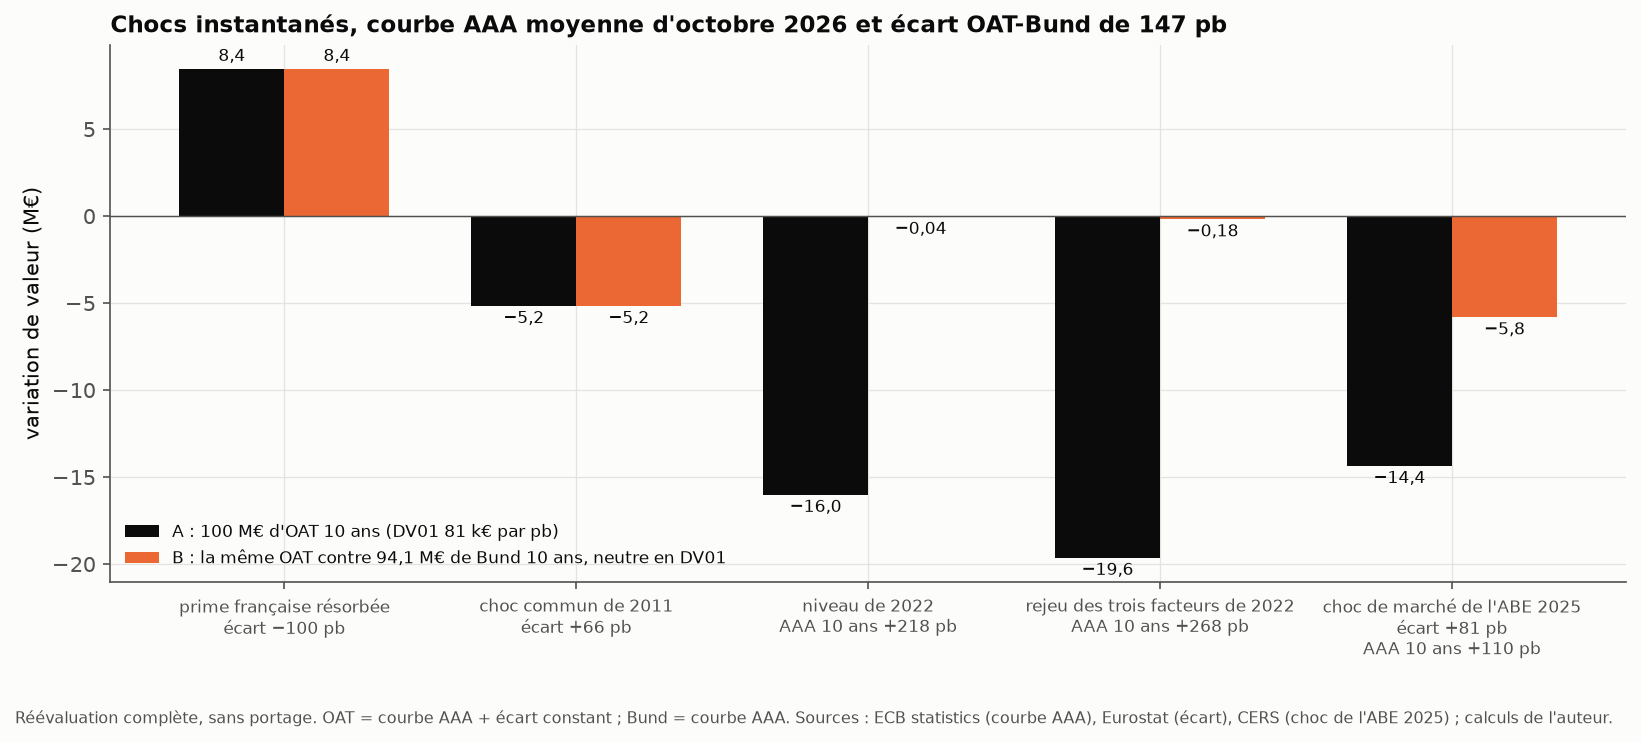
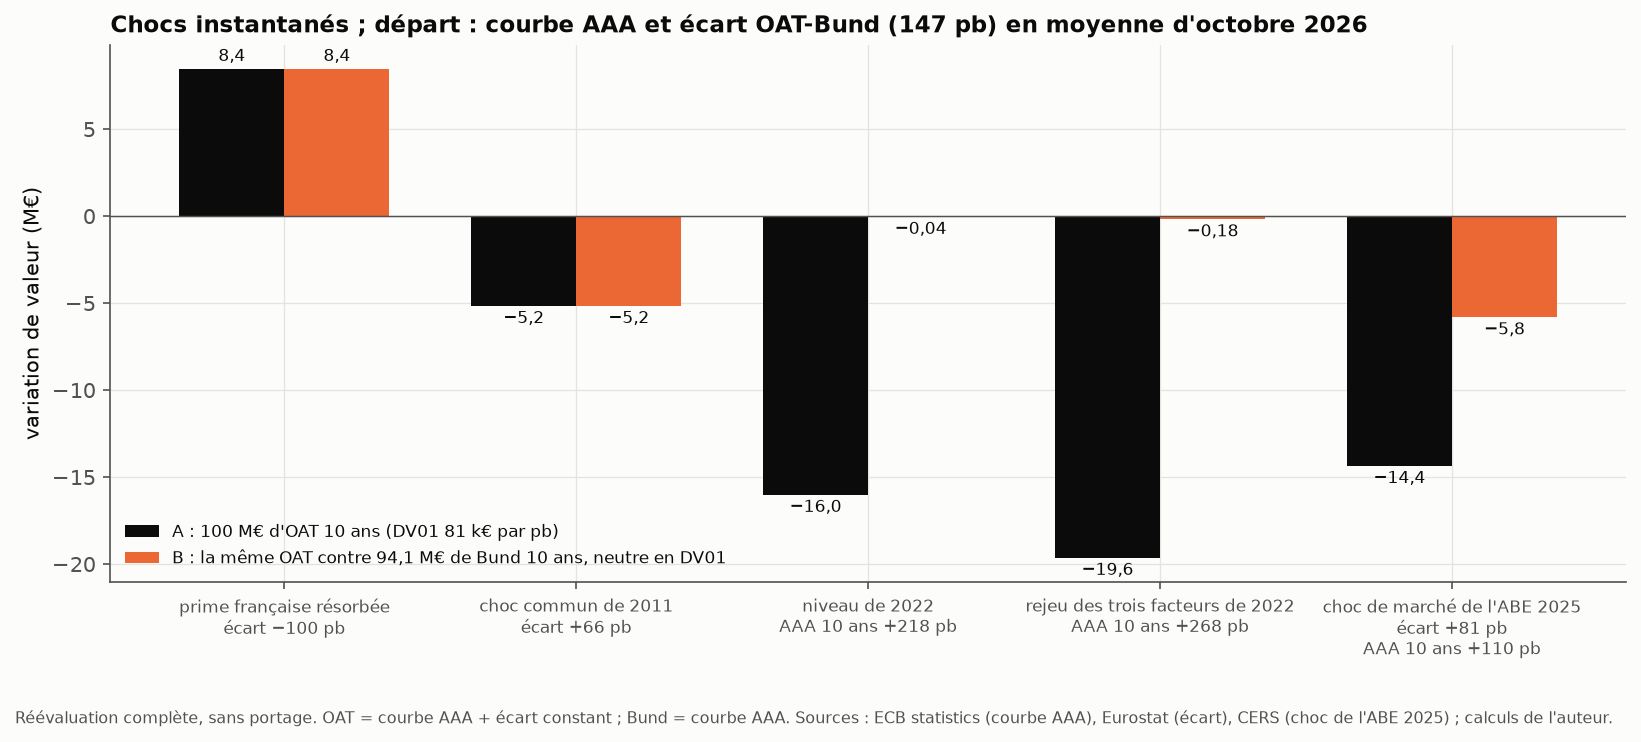
Relecture du README en stratégiste taux : part propre au-delà de la hausse dite, moyenne mensuelle partout, Bund
Relu comme le lirait un stratégiste taux, le README corrige ce qui l'aurait fait tiquer :
- la phrase d'en-tête dit, comme le plan l'exigeait, que la part propre (100 pb) dépasse la hausse
  observée (96 pb) parce que la part commune est négative (−3 pb) ;
- « en moyenne mensuelle » accompagne chaque niveau de l'écart (147 pb n'est pas un niveau quotidien) ;
- b est expliqué (0,40 pb d'écart français par pb d'écart moyen des pairs), l'écart moyen des pairs est
  nommé facteur commun, la part propre prime de risque souveraine relative aux pairs ;
- DV01 et sensibilité à l'écart ne sont plus confondues dans la note (égales pour une OAT seule) ;
- le tableau sans modèle dit que seule la ligne de l'Allemagne dépend d'un choc propre au Bund ;
- les limites ajoutent la pondération par le PIB plutôt que par l'encours de dette.

Contrôle ajouté après le premier calcul, signalé comme tel dans le README et dans stress.json : les
coupons construits (5,00 % pour l'OAT, 3,48 % pour le Bund) sont un peu au-dessus des taux d'Eurostat
d'octobre 2026 (4,89 % et 3,42 %), car la courbe AAA n'est pas celle du Bund seul. Aucun autre chiffre
n'a changé ; les scripts ont été relancés pour la mise en page des figures, sans changement de
spécification. La vérification retrouve les 142 chiffres de la page dans resultats/.

Claude-Session: https://claude.ai/code/session_01LuS1gEV7LyJ3dwhMPhbNXb

Changed region(s): [[0.2176, 0.0, 0.8391, 0.062]]

diff --git a/scripts/verifier_readme.py b/scripts/verifier_readme.py
@@ -59,11 +59,13 @@ def attendus(r: dict) -> dict[str, str]:
     e["part commune"] = f"la part commune de l'écart français est de {fr(p['part_commune_pb'])} pb"
     xs = sorted(round(v["part_propre_pb"]) for v in var.values())
     e["variantes"] = f"donnent toutes {xs[0]} ou {xs[-1]} pb"
-    e["147"] = f"écart OAT-Bund ({fr(f['ecart_fin_pb'])} pb) est au plus haut depuis {mois_fr(f['plus_haut_depuis'])}"
+    e["147"] = (f"l'écart OAT-Bund ({fr(f['ecart_fin_pb'])} pb en moyenne\nmensuelle) est au plus haut depuis "
+                f"{mois_fr(f['plus_haut_depuis'])}")
     fi = f["france_au_dessus_de_l_italie"]
     nombres = {6: "sixième"}
-    e["italie"] = (f"pour le {nombres[fi['nombre_de_mois']]} mois depuis {mois_fr(fi['premier_mois_depuis_1999'])}, "
+    e["italie"] = (f"pour le {nombres[fi['nombre_de_mois']]} mois\ndepuis {mois_fr(fi['premier_mois_depuis_1999'])}, "
                    "une première depuis 1999")
+    e["part propre dépasse"] = "la part propre dépasse donc la hausse observée" if p["part_commune_pb"] < 0 else "?"
     chemin_avant = {m: v for m, v in ch.items() if m <= "2026-08"}
     bas = min(chemin_avant.items(), key=lambda kv: kv[1]["propre"])
     haut = max(chemin_avant.items(), key=lambda kv: kv[1]["propre"])
@@ -72,7 +74,8 @@ def attendus(r: dict) -> dict[str, str]:
     e["chemin, septembre"] = f"à {fr(ch['2026-09']['propre'])} pb en septembre"
     e5 = ep["E5"]
     e["automne"] = f"{fr(e5['part_propre_pb'])} pb\n  {ic(e5['ic95_pb'])} en deux mois"
-    e["b"] = f"(b = {fr(est['coefficients']['P'], 2)})"
+    e["b"] = (f"b = {fr(est['coefficients']['P'], 2)} ({fr(est['coefficients']['P'], 2)} pb d'écart français par pb "
+              "d'écart moyen des pairs)")
     francais_contre = {k: v["variation_pb"] for k, v in sm.items() if k not in ("G8",)}
     mini = min(francais_contre, key=francais_contre.get)
     maxi = max(francais_contre, key=francais_contre.get)
@@ -85,7 +88,9 @@ def attendus(r: dict) -> dict[str, str]:
     e1, e2 = ep["E1"], ep["E2"]
     e["E1 note"] = f"{fr(e1['part_propre_pb'])} pb {ic(e1['ic95_pb'])} de juin à novembre 2011"
     e["E2 note"] = f"({fr(e2['part_propre_pb'])} pb, {ic(e2['ic95_pb'])})"
-    e["DV01 note"] = f"chaque pb d'écart vaut {fr(A['dv01_taux_keur_par_pb'])} k€ (DV01)"
+    assert round(A["dv01_taux_keur_par_pb"]) == round(A["sensibilite_ecart_keur_par_pb"])
+    e["DV01 note"] = (f"la DV01 et la sensibilité à l'écart valent toutes deux {fr(A['dv01_taux_keur_par_pb'])} k€ "
+                      "par pb")
     e["C1 note"] = f"rapporterait {fr(A['chocs']['C1_prime_resorbee']['variation_meur'], 1)} M€"
     e["C2 note"] = f"coûterait {fr(-A['chocs']['C2_choc_commun_2011']['variation_meur'], 1)} M€"
     obs = abe["ecart_observe_moyenne_annuelle_pb"]
@@ -101,8 +106,9 @@ def attendus(r: dict) -> dict[str, str]:
     e["anglais 5"] = f"EUR {fr(ref['plan']['nominal_oat_meur'])}m of {ref['plan']['maturite_ans']}-year OATs"
     e["anglais 6"] = f"worth\n> EUR {fr(A['dv01_taux_keur_par_pb'])}k"
     # Section 2
-    e["s2 147"] = f"l'écart OAT-Bund est de {fr(f['ecart_fin_pb'])} pb, contre {fr(f['ecart_mai_2024_pb'])} pb en mai 2024"
-    e["s2 2011"] = f"novembre 2011\n  ({fr(f['ecart_au_plus_haut_depuis_pb'])} pb)"
+    e["s2 147"] = (f"l'écart OAT-Bund est de {fr(f['ecart_fin_pb'])} pb en moyenne mensuelle, contre "
+                   f"{fr(f['ecart_mai_2024_pb'])} pb en mai 2024")
+    e["s2 2011"] = f"à novembre 2011 ({fr(f['ecart_au_plus_haut_depuis_pb'])} pb)"
     e["s2 italie"] = f"six mois, et aucun avant décembre 2025 depuis janvier 1999"
     e["s2 italie niveaux"] = (f"il était {fr(-sm['IT']['base_pb'])} pb en dessous ; en octobre\n  2026, il est "
                               f"{fr(sm['IT']['fin_pb'])} pb au-dessus")
@@ -244,7 +250,11 @@ def attendus(r: dict) -> dict[str, str]:
                          f"{fr(cd['eurostat_moyenne_2024_pct']['DE'], 2)} % chez Eurostat")
     e["abe suivi"] = (f"{fr(obs['2025'])} pb en 2025 pour {fr(ea['central_2025'])} dans le\n  scénario central et "
                       f"{fr(ea['adverse_2025'])} dans l'adverse")
-    e["abe octobre"] = f"Le niveau d'octobre 2026 ({fr(f['ecart_fin_pb'])} pb) approche l'adverse de 2025"
+    e["abe octobre"] = (f"Le niveau d'octobre 2026 ({fr(f['ecart_fin_pb'])} pb en moyenne mensuelle) approche\n  "
+                        "l'adverse de 2025")
+    ca2 = st["controle_ajoute_apres_coup"]["taux_eurostat_pct"]
+    e["contrôle coupons"] = (f"Eurostat donne {fr(ca2['FR'], 2)} % pour la France et {fr(ca2['DE'], 2)} % pour\n  "
+                             "l'Allemagne en octobre 2026")
     cm = abe["choc_de_marche_10_ans_pb"]
     e["abe marché"] = (f"monte le swap en euro de {fr(cm['swap_eur'])} pb, l'écart souverain français\n  contre swap de "
                        f"{fr(cm['france_contre_swap'])} pb et l'allemand de {fr(cm['allemagne_contre_swap'])} pb : "

diff --git a/scripts/stress.py b/scripts/stress.py
@@ -117,6 +117,9 @@ def main() -> None:
         "chocs": {c: {"libelle": s["libelle"], "ecart_10_ans_pb": s["ecart_10_ans_pb"], "aaa_10_ans_pb": s["aaa_10_ans_pb"]}
                   for c, s in chocs.items()},
         "entrees": {"part_propre_pb": x_propre, "b": b, "variation_P_G8_2011_06_2011_11_pb": dP_2011},
+        "controle_ajoute_apres_coup": {
+            "note": "ajouté après le premier calcul, hors plan : les coupons construits face aux taux d'Eurostat du même mois",
+            "taux_eurostat_pct": {p: float(donnees.lire_taux_longs().loc[analyse.FIN, p]) for p in ("FR", "DE")}},
         "positions": sortie_positions,
     }
     (RESULTATS / "stress.json").write_text(json.dumps(analyse.arrondir(resultats), indent=2, ensure_ascii=False))
@@ -147,7 +150,8 @@ def main() -> None:
     ax.set_xticks(x, etiquettes, fontsize=8)
     ax.axhline(0, color=style.ENCRE_2, lw=0.7)
     ax.set_ylabel("variation de valeur (M€)")
-    ax.set_title(f"Chocs instantanés, courbe AAA moyenne d'octobre 2026 et écart OAT-Bund de {_fr(ecart, 0)} pb", loc="left")
+    ax.set_title(f"Chocs instantanés ; départ : courbe AAA et écart OAT-Bund ({_fr(ecart, 0)} pb) en moyenne d'octobre 2026",
+                 loc="left")
     ax.legend(loc="lower left", fontsize=8)
     style.virgule(ax, decimales=0)
     fig.text(0.01, -0.06, "Réévaluation complète, sans portage. OAT = courbe AAA + écart constant ; Bund = courbe AAA. "

diff --git a/README.md b/README.md
@@ -5,17 +5,20 @@
 **Sur 96 pb de hausse de l'écart de taux à 10 ans entre la France et l'Allemagne, de mai 2024 à octobre 2026 et en
 moyenne mensuelle, 100 pb [73 ; 126] sont propres à la France** (intervalle à 95 %). Les huit pays pairs ne
 l'expliquent pas : leur écart moyen à l'Allemagne, pondéré par le PIB de 2019, a baissé de 8 pb sur la période, et
-la part commune de l'écart français est de −3 pb. Les cinq variantes fixées d'avance donnent toutes 99 ou 100 pb.
-En octobre 2026, l'écart OAT-Bund (147 pb) est au plus haut depuis novembre 2011, et le taux français dépasse
-l'italien pour le sixième mois depuis décembre 2025, une première depuis 1999.
+la part commune de l'écart français est de −3 pb ; la part propre dépasse donc la hausse observée. Les cinq
+variantes fixées d'avance donnent toutes 99 ou 100 pb. En octobre 2026, l'écart OAT-Bund (147 pb en moyenne
+mensuelle) est au plus haut depuis novembre 2011, et le taux français dépasse l'italien pour le sixième mois
+depuis décembre 2025, une première depuis 1999.
 
 - **Quand.** La part propre apparaît dès juin 2024 (12 pb), reste entre 12 et 43 pb jusqu'en août 2026, puis passe
   à 57 pb en septembre et à 100 pb en octobre 2026. L'épisode de l'automne 2026 en fait plus de la moitié : 56 pb
   [49 ; 64] en deux mois. Faute de source primaire sur ses causes, ce projet ne les date pas.
 - **Ce que mesure le chiffre.** L'écart entre l'OAT-Bund observé et celui qu'aurait donné une France suivant ses
-  pairs (Italie, Espagne, Pays-Bas, Belgique, Autriche, Portugal, Finlande, Irlande) avec la sensibilité estimée
-  sur les 60 mois avant mai 2024 (b = 0,40). La « juste valeur » est relative aux pairs. L'écart n'est pas un pur
-  risque de défaut : il contient aussi la liquidité et la rareté relative du Bund.
+  pairs (Italie, Espagne, Pays-Bas, Belgique, Autriche, Portugal, Finlande, Irlande). Leur écart moyen à l'Allemagne
+  sert de facteur commun ; la sensibilité de la France à ce facteur, estimée sur les 60 mois avant mai 2024, est
+  b = 0,40 (0,40 pb d'écart français par pb d'écart moyen des pairs). La part propre est une prime de risque
+  souveraine relative aux pairs : la « juste valeur » qu'elle suppose est relative, et l'écart n'est pas un pur
+  risque de défaut, il contient aussi la liquidité et la rareté relative du Bund.
 - **Pourquoi les variantes s'accordent.** L'écart moyen des pairs a peu bougé en net : quel que soit b, la part
   commune reste petite. Le chiffre repose donc surtout sur l'hypothèse qu'en l'absence de choc propre, la France
   aurait suivi ses pairs. Sans modèle, l'écart de la France s'est creusé contre chacun des neuf pays, de 54 pb
@@ -27,14 +30,15 @@ l'italien pour le sixième mois depuis décembre 2025, une première depuis 1999
   commune, comme le plan l'attendait, et trouve une part propre de 37 pb [19 ; 55] de juin à novembre 2011. Elle ne
   détecte pas l'élection présidentielle de 2017 (10 pb, [−19 ; 39]), que le plan attendait : sur des moyennes
   mensuelles, un épisode court et modéré lui échappe.
-- **Stress.** Pour 100 M€ d'OAT à 10 ans, chaque pb d'écart vaut 81 k€ (DV01). La résorption de la prime
-  rapporterait 8,4 M€ ; le choc commun de 2011, transposé, coûterait 5,2 M€. Couverte contre le Bund en DV01, la
-  position ne garde que le risque d'écart, mais elle le garde en entier.
+- **Stress.** Pour 100 M€ d'OAT à 10 ans, la DV01 et la sensibilité à l'écart valent toutes deux 81 k€ par pb. La
+  résorption de la prime rapporterait 8,4 M€ ; le choc commun de 2011, transposé, coûterait 5,2 M€. Couverte contre
+  le Bund en DV01, la position ne garde que le risque d'écart, mais elle le garde en entier.
 - **ABE 2025.** En moyenne annuelle, l'écart observé a suivi le scénario central de l'ABE (76 pb en 2025, comme le
   scénario) ; le niveau d'octobre 2026, 147 pb sur un mois, approche celui du scénario adverse pour 2025, 157 pb en
   moyenne annuelle.
 
-C'est une mesure, ni une prévision ni une recommandation de position. Le plan a été commité avant tout calcul
+Sources : Eurostat, BCE, CERS ; calculs de l'auteur. C'est une mesure, ni une prévision ni une recommandation de
+position. Le plan a été commité avant tout calcul
 (`PLAN.md`, commit `f938339`), le code de la décomposition avant les résultats. Le code a été écrit et relu par des
 agents de programmation IA (Claude Code) sous la direction de l'auteur ; il fixe l'objectif et les règles de
 validation, et décide de ce qui est gardé.
@@ -54,9 +58,10 @@ validation, et décide de ce qui est gardé.
 - Les taux sont les taux longs du critère de convergence publiés par Eurostat : rendements du marché secondaire
   d'obligations d'État de durée résiduelle proche de 10 ans, en moyenne mensuelle. Ils ne sont pas à maturité
   constante : les titres retenus sont remplacés à mesure qu'ils vieillissent.
-- En octobre 2026, l'écart OAT-Bund est de 147 pb, contre 51 pb en mai 2024. Il faut remonter à novembre 2011
-  (154 pb) pour trouver un mois plus haut.
-- Le taux français dépasse le taux italien en décembre 2025, janvier et février 2026, puis d'août à octobre 2026 :
+- En octobre 2026, l'écart OAT-Bund est de 147 pb en moyenne mensuelle, contre 51 pb en mai 2024. Il faut remonter
+  à novembre 2011 (154 pb) pour trouver un mois plus haut.
+- En moyenne mensuelle, le taux français dépasse l'italien en décembre 2025, janvier et février 2026, puis d'août
+  à octobre 2026 :
   six mois, et aucun avant décembre 2025 depuis janvier 1999. En mai 2024, il était 81 pb en dessous ; en octobre
   2026, il est 21 pb au-dessus.
 - Les pairs pèsent selon leur PIB de 2019 : Italie 32 %, Espagne 22 %, Pays-Bas 15 %, Belgique 9 %, Autriche 7 %,
@@ -128,8 +133,8 @@ mensuelle :
 | moyenne des huit pairs (PIB de 2019) | −29 | 75 | +104 |
 
 La France s'écarte de tous. La Belgique fait exception par l'ampleur : son propre écart au Bund a monté pendant la
-période, ce qui réduit celui de la France contre elle à 54 pb. Un choc propre au Bund déplace tous ces écarts
-ensemble ; l'écart contre les pairs n'en dépend pas.
+période, ce qui réduit celui de la France contre elle à 54 pb. Seule la ligne de l'Allemagne dépend d'un choc
+propre au Bund ; les autres comparent la France à un pair, sans passer par le Bund.
 
 ## 4. Les épisodes
 
@@ -156,8 +161,8 @@ modèle principal sert.
   mois, la méthode n'a pas la précision de séparer un épisode de cette taille. Le résultat de 2024-2026, dix fois
   plus grand, n'est pas dans ce cas, mais la validation de la méthode sur le passé reste partielle.
 - **E1** : la part commune domine (+63 pb sur +100), et la France a aussi sa part propre (+37 pb), significative.
-- **E5** : 56 pb propres en deux mois. L'écart moyen des pairs monte aussi de 24 pb ; si c'est de la contagion venue
-  de France, la part propre est sous-estimée.
+- **E5** : 56 pb propres en deux mois, en moyenne mensuelle. L'écart moyen des pairs monte aussi de 24 pb ; si c'est
+  de la contagion venue de France, la part propre est sous-estimée.
 - **Le SovCISS de la France**, indicateur quotidien de tension souveraine de la BCE, sert à dater faute de taux
   français quotidien ouvert. Dans chaque épisode, il culmine le 1er novembre 2011 (0,72), le 16 mars 2017 (0,44), le
   2 avril 2020 (0,45), le 19 octobre 2022 (0,54) et le 21 octobre 2026 (0,27). En juin 2024, sa plus forte hausse sur
@@ -172,10 +177,12 @@ Hypothèses (`PLAN.md`, section 10 ; `src/ecart_oat_bund/stress.py`) :
 
 - **Courbes.** La courbe AAA de la BCE en moyenne d'octobre 2026 (moyenne des courbes de Svensson publiées les 22
   jours ouvrés du mois ; 3,45 % à 10 ans en zéro-coupon) tient lieu de courbe du Bund. La courbe des OAT est la courbe
-  AAA plus l'écart d'octobre 2026, 147 pb, à toutes les maturités.
+  AAA plus l'écart d'octobre 2026, 147 pb en moyenne mensuelle, à toutes les maturités.
 - **Positions.** (A) 100 M€ de nominal d'une OAT à 10 ans émise au pair (coupon 5,00 %, duration 8,1 ans) ; (B) la
   même OAT contre la vente de 94,1 M€ de Bund à 10 ans au pair (coupon 3,48 %, duration 8,6 ans), montant qui annule
-  la DV01 de taux.
+  la DV01 de taux. Contrôle ajouté après le premier calcul : Eurostat donne 4,89 % pour la France et 3,42 % pour
+  l'Allemagne en octobre 2026 ; les coupons construits sont un peu plus hauts, car la courbe AAA n'est pas celle du
+  Bund seul et un coupon au pair n'est pas un taux zéro-coupon.
 - **Sensibilités.** A : DV01 de taux 81 k€ par pb, sensibilité à l'écart 81 k€ par pb. B : DV01 de taux nulle,
   sensibilité à l'écart 81 k€ par pb.
 - **Chocs instantanés**, réévaluation complète, sans portage :
@@ -187,7 +194,7 @@ Hypothèses (`PLAN.md`, section 10 ; `src/ecart_oat_bund/stress.py`) :
   - C4, rejeu des trois facteurs de 2022 (niveau +218 pb, pente +4 pb, courbure +361 pb) : +268 pb à 10 ans ;
   - C5, choc de marché de l'ABE 2025 : écart OAT-Bund +81 pb et Bund +110 pb à 10 ans (section 6).
 
-| choc | écart à 10 ans | AAA à 10 ans | A : OAT seule | B : OAT contre Bund |
+| choc | écart à 10 ans | courbe AAA (Bund) à 10 ans | A : OAT seule | B : OAT contre Bund |
 |---|---|---|---|---|
 | C1 prime française résorbée | −100 pb | | **+8,4 M€** | **+8,4 M€** |
 | C2 choc commun de 2011 | +66 pb | | −5,2 M€ | −5,2 M€ |
@@ -220,8 +227,8 @@ le scénario de marché a été mis à jour le 12 février 2025. Écart France-A
 - Les taux longs de l'ABE sont très proches de ceux d'Eurostat : la moyenne 2024 qu'elle retient est de 2,98 % pour
   la France et 2,34 % pour l'Allemagne, contre 2,97 % et 2,32 % chez Eurostat.
 - **En moyenne annuelle, l'écart a suivi le scénario central**, pas l'adverse : 76 pb en 2025 pour 76 dans le
-  scénario central et 157 dans l'adverse. Le niveau d'octobre 2026 (147 pb) approche l'adverse de 2025, mais c'est
-  un mois contre une moyenne annuelle.
+  scénario central et 157 dans l'adverse. Le niveau d'octobre 2026 (147 pb en moyenne mensuelle) approche
+  l'adverse de 2025, mais c'est un mois contre une moyenne annuelle.
 - **Le choc de marché de l'ABE** (instantané, à 10 ans) monte le swap en euro de 79 pb, l'écart souverain français
   contre swap de 112 pb et l'allemand de 31 pb : +191 pb pour le taux français, +110 pb pour l'allemand, +81 pb pour
   l'écart OAT-Bund. Ces écarts sont mesurés contre swap, pas contre le Bund ; seule leur différence se compare à
@@ -244,7 +251,8 @@ le scénario de marché a été mis à jour le 12 février 2025. Écart France-A
   pas le résultat.
 - **Ce que contient l'écart.** Risque de crédit et de notation, liquidité, offre de titres, demande de Bund comme
   actif sûr : la décomposition ne les sépare pas. Ni CDS, ni décisions des agences de notation dans les données.
-- **Pondération.** Le PIB de 2019 surpondère l'Irlande, dont le PIB est gonflé par les multinationales.
+- **Pondération.** Les pairs sont pondérés par le PIB de 2019, pas par l'encours de dette négociable ; ce PIB
+  surpondère l'Irlande, gonflé par les multinationales.
 - **Stress.** La courbe AAA de la BCE, estimée sur les titres d'État notés AAA, tient lieu de courbe du Bund ; écart
   constant à toutes les maturités ; écart de rendements ajouté à des taux zéro-coupon en composition continue ;
   chocs instantanés, sans portage ni probabilité. Ce sont des scénarios, pas des prévisions.
